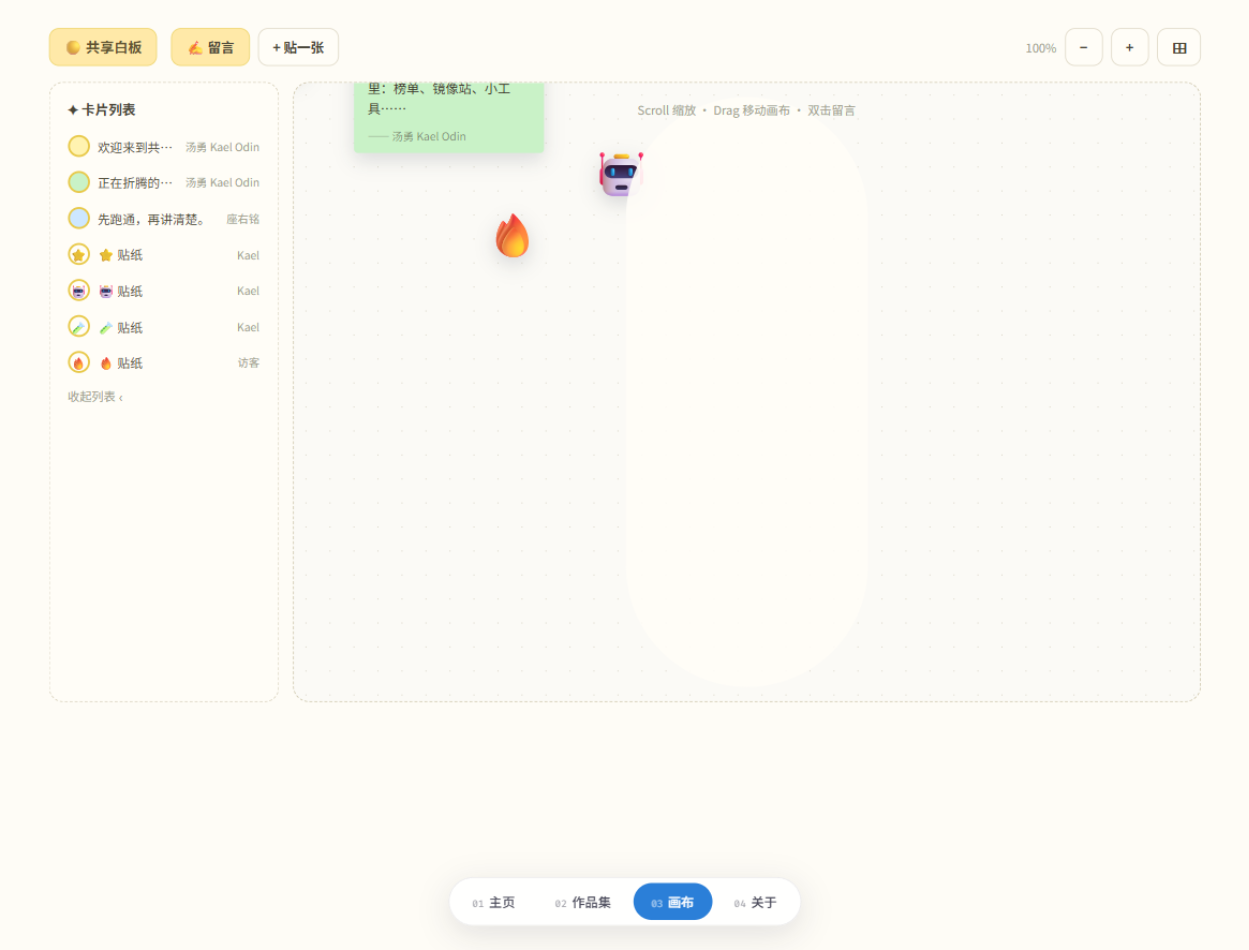
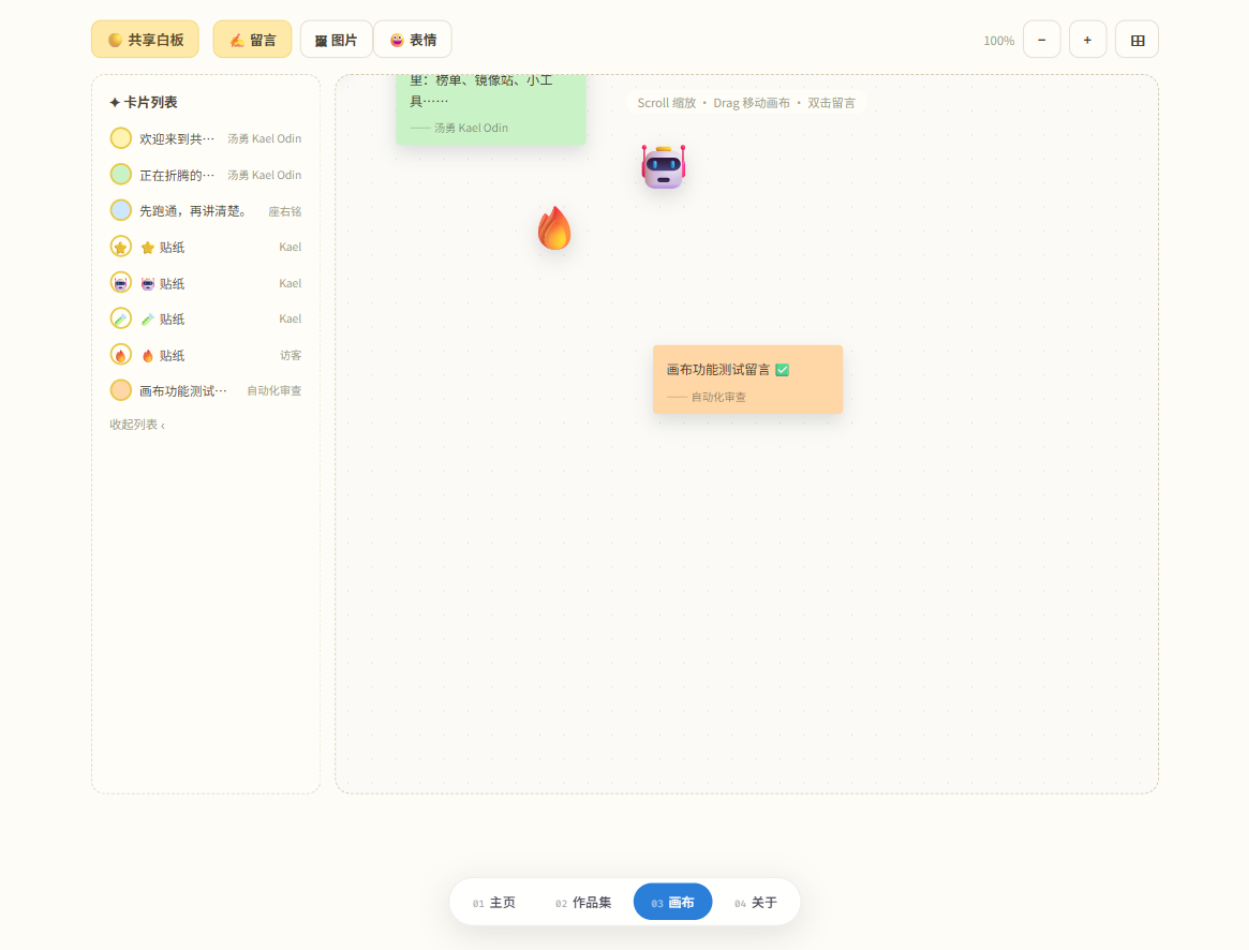
feat(system): true message modal + image stickers; fullscreen canvas; fix ghost white block
- message button opens a proper modal (text + signature) instead of
  window.prompt; submitted notes land centered on the canvas
- add sticker: real image upload (client-side downscale to 640px,
  webp dataURL, stored locally) plus the emoji picker
- canvas is now edge-to-edge (was capped at 1200px) with
  viewport-following height
- fixed the ghost white block in the middle: v1 rules for .canvas-hint
  (bottom-anchored) survived next to v2 (top-anchored), so the merged
  top+bottom offsets stretched the hint into a 242x590 pill
- README canvas screenshot retaken

diff --git a/src/components/tabs/SystemTab.jsx b/src/components/tabs/SystemTab.jsx
@@ -32,6 +32,8 @@ export default function SystemTab() {
   const [view, setView] = useState({ x: 0, y: 0, scale: 1 });
   const [panelOpen, setPanelOpen] = useState(true);
   const [emojiPicker, setEmojiPicker] = useState(false);
+  const [noteModal, setNoteModal] = useState(null); // { text, who }
+  const fileRef = useRef(null);
   const dragRef = useRef(null);
 
   useEffect(() => {
@@ -100,12 +102,15 @@ export default function SystemTab() {
     dragRef.current = null;
   };
 
-  /* --- 留言：视口中心放一张便签 --- */
-  const addNote = () => {
+  /* --- 留言：模态填写（内容 + 署名），确认后放到视口中心 --- */
+  const openNoteModal = () => {
+    setEmojiPicker(false);
+    setNoteModal({ text: '', who: '' });
+  };
+
+  const submitNote = () => {
     const board = boardRef.current;
-    if (!board) return;
-    const text = window.prompt('写一条留言：');
-    if (!text || !text.trim()) return;
+    if (!noteModal || !noteModal.text.trim() || !board) return;
     const rect = board.getBoundingClientRect();
     const cx = (rect.width / 2 - view.x) / view.scale;
     const cy = (rect.height / 2 - view.y) / view.scale;
@@ -113,9 +118,11 @@ export default function SystemTab() {
       id: 'n' + Date.now(), type: 'note',
       x: cx - 95, y: cy - 40,
       color: Math.floor(Math.random() * NOTE_COLORS.length),
-      text: text.trim(), who: '访客',
+      text: noteModal.text.trim(),
+      who: noteModal.who.trim() || '访客',
     };
     persist([...items, item]);
+    setNoteModal(null);
   };
 
   /* --- 贴一张：emoji 贴纸 --- */
@@ -128,6 +135,36 @@ export default function SystemTab() {
     const cy = (rect.height / 2 - view.y) / view.scale;
     const item = { id: 's' + Date.now(), type: 'sticker', x: cx - 28, y: cy - 28, emoji, who: '访客' };
     persist([...items, item]);
+  };
+
+  /* --- 贴一张：上传图片（前端压缩到最长边 640px，dataURL 存本地） --- */
+  const onPickImage = (e) => {
+    const file = e.target.files && e.target.files[0];
+    e.target.value = '';
+    if (!file || !file.type.startsWith('image/')) return;
+    const img = new Image();
+    const url = URL.createObjectURL(file);
+    img.onload = () => {
+      const maxSide = 640;
+      const ratio = Math.min(1, maxSide / Math.max(img.width, img.height));
+      const w = Math.max(1, Math.round(img.width * ratio));
+      const h = Math.max(1, Math.round(img.height * ratio));
+      const cv = document.createElement('canvas');
+      cv.width = w; cv.height = h;
+      cv.getContext('2d').drawImage(img, 0, 0, w, h);
+      URL.revokeObjectURL(url);
+      let dataUrl;
+      try { dataUrl = cv.toDataURL('image/webp', 0.82); } catch { dataUrl = cv.toDataURL('image/jpeg', 0.82); }
+      const board = boardRef.current;
+      if (!board) return;
+      const rect = board.getBoundingClientRect();
+      const cx = (rect.width / 2 - view.x) / view.scale;
+      const cy = (rect.height / 2 - view.y) / view.scale;
+      const item = { id: 'p' + Date.now(), type: 'sticker', x: cx - w * 0.35, y: cy - h * 0.35, img: dataUrl, who: '访客' };
+      persist([...items, item]);
+      setEmojiPicker(false);
+    };
+    img.src = url;
   };
 
   /* --- 卡片列表点击：把元素带到视口中心 --- */
@@ -159,9 +196,11 @@ export default function SystemTab() {
         <div className="canvas-toolbar">
           <span className="canvas-badge">🟡 共享白板</span>
           <div className="canvas-actions">
-            <button className="canvas-btn canvas-btn-primary" onClick={addNote}>✍ 留言</button>
+            <button className="canvas-btn canvas-btn-primary" onClick={openNoteModal}>✍ 留言</button>
             <div className="canvas-btn-group">
-              <button className="canvas-btn" onClick={() => setEmojiPicker((v) => !v)}>+ 贴一张</button>
+              <button className="canvas-btn" onClick={() => fileRef.current && fileRef.current.click()} title="上传一张图片贴到画布">🖼 图片</button>
+              <button className="canvas-btn" onClick={() => setEmojiPicker((v) => !v)}>😀 表情</button>
+              <input ref={fileRef} type="file" accept="image/*" style={{ display: 'none' }} onChange={onPickImage} />
               {emojiPicker && (
                 <div className="canvas-emoji-pop">
                   {STICKER_EMOJIS.map((e) => (
@@ -246,6 +285,34 @@ export default function SystemTab() {
           </div>
         </div>
       </div>
+
+      {noteModal && (
+        <div className="canvas-modal-mask" onClick={() => setNoteModal(null)}>
+          <div className="canvas-modal" onClick={(e) => e.stopPropagation()}>
+            <h3 className="canvas-modal-title">✍ 写留言</h3>
+            <textarea
+              className="canvas-modal-text"
+              placeholder="写点什么……"
+              rows={4}
+              value={noteModal.text}
+              autoFocus
+              onChange={(e) => setNoteModal({ ...noteModal, text: e.target.value })}
+            />
+            <input
+              className="canvas-modal-who"
+              placeholder="署名（可留空，默认「访客」）"
+              value={noteModal.who}
+              onChange={(e) => setNoteModal({ ...noteModal, who: e.target.value })}
+            />
+            <div className="canvas-modal-actions">
+              <button className="canvas-btn" onClick={() => setNoteModal(null)}>取消</button>
+              <button className="canvas-btn canvas-btn-primary" onClick={submitNote} disabled={!noteModal.text.trim()}>
+                贴到画布
+              </button>
+            </div>
+          </div>
+        </div>
+      )}
     </main>
   );
 }

diff --git a/src/styles/sections/works.css b/src/styles/sections/works.css
@@ -170,19 +170,6 @@
   font-size: 11px;
   color: rgba(63, 58, 47, 0.55);
 }
-.canvas-note-del {
-  position: absolute;
-  top: 4px;
-  right: 6px;
-  border: none;
-  background: none;
-  color: rgba(63, 58, 47, 0.4);
-  font-size: 14px;
-  cursor: pointer;
-  padding: 2px;
-  line-height: 1;
-}
-.canvas-note-del:hover { color: #b4483c; }
 .canvas-sticker {
   position: absolute;
   width: 64px;
@@ -194,25 +181,13 @@
   pointer-events: auto;
 }
 .canvas-sticker:active { cursor: grabbing; }
-.canvas-hint {
-  position: absolute;
-  left: 50%;
-  bottom: 14px;
-  transform: translateX(-50%);
-  font-family: 'Noto Sans SC', sans-serif;
-  font-size: 12px;
-  color: #a49f8f;
-  pointer-events: none;
-  white-space: nowrap;
-}
 
 /* ============================================
    TAB: SYSTEM —— 共享白板（无限画布，对标 hiesther.me/#system）
    ============================================ */
 .system-page-full {
-  max-width: 1200px;
-  margin: 0 auto;
-  padding: 28px 24px 140px;
+  width: 100%;
+  padding: 20px 16px 120px;
 }
 .canvas-toolbar {
   display: flex;
@@ -330,7 +305,8 @@
 .canvas-panel-toggle-closed { align-self: flex-start; padding: 8px 4px; }
 .canvas-board {
   position: relative;
-  height: 620px;
+  height: calc(100vh - 230px);
+  min-height: 480px;
   flex: 1;
   border: 1.5px dashed #cfc7ad;
   border-radius: 16px;
@@ -387,5 +363,43 @@
 .canvas-sticker img { width: 100%; height: 100%; object-fit: cover; border-radius: 12px; }
 @media (max-width: 900px) {
   .canvas-panel { display: none; }
-  .canvas-board { height: 480px; }
+  .canvas-board { height: calc(100vh - 260px); }
 }
+
+/* 留言模态 */
+.canvas-modal-mask {
+  position: fixed;
+  inset: 0;
+  z-index: 90;
+  background: rgba(20, 24, 31, 0.45);
+  display: flex;
+  align-items: center;
+  justify-content: center;
+  padding: 20px;
+}
+.canvas-modal {
+  width: min(420px, 100%);
+  background: #fffdf7;
+  border-radius: 16px;
+  padding: 22px;
+  box-shadow: 0 24px 60px rgba(15, 23, 42, 0.3);
+}
+.canvas-modal-title { margin: 0 0 14px; font-size: 16px; color: #3f3a2f; }
+.canvas-modal-text,
+.canvas-modal-who {
+  width: 100%;
+  box-sizing: border-box;
+  border: 1px solid #e3ddcd;
+  border-radius: 10px;
+  background: #fff;
+  padding: 10px 12px;
+  font-family: 'Noto Sans SC', sans-serif;
+  font-size: 13.5px;
+  color: #3f3a2f;
+  margin-bottom: 10px;
+  resize: vertical;
+}
+.canvas-modal-text:focus, .canvas-modal-who:focus { outline: none; border-color: #e8ce6e; }
+.canvas-modal-actions { display: flex; justify-content: flex-end; gap: 8px; }
+.canvas-btn[disabled] { opacity: 0.45; cursor: not-allowed; }
+.canvas-btn[disabled]:hover { background: #fffdf7; border-color: #e3ddcd; }
